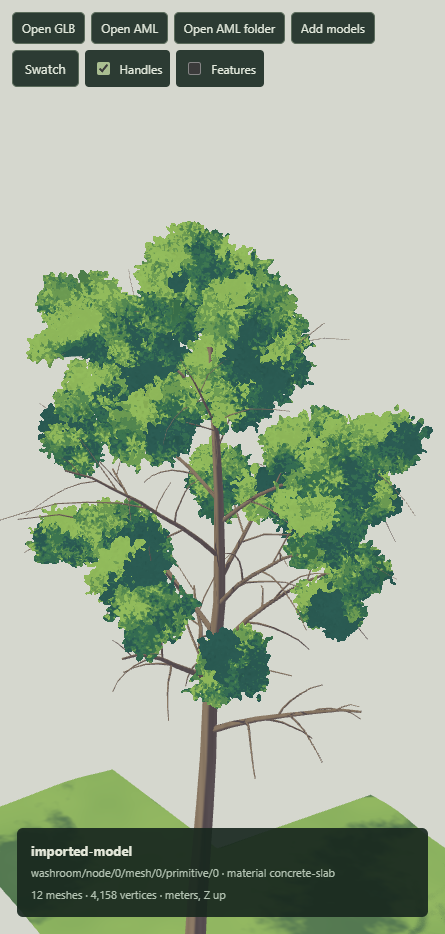
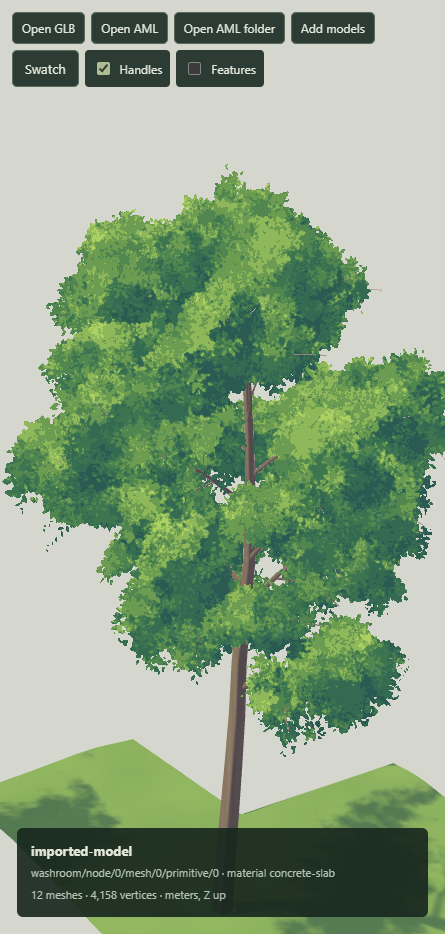
Checkpoint: painted trees from a leaf density field
Reference renders and the roadmap's record of the look: the density field's
core, cards ramping out from it, twig strips whose leaves fuse near the clump
and part toward the tip, a highlight band, and blur and re-threshold.

diff --git a/docs/plans/tree-item-roadmap.md b/docs/plans/tree-item-roadmap.md
@@ -622,6 +622,22 @@ is a rough base mesh shaded through a stroke-painted leaf normal map, with leafy
     shaded as the core with its normal turned toward each edge. With the cards kept to mid density and above
     (`CARD_FLOOR=0.35`), the rim is strips: 237 on the poplar (7,584 triangles), 102 on the birch. Alone they still
     lean toward fern fronds.
+  - Checkpoint `painted-trees-checkpoint` (2026-11-17), the settings of the reference look:
+    `BASE=density STRIPS=1 TILE=1.0 SIZE=0.6 DENSITY=5 COARSE=0.3 BLUR=0.006 REPAINT=1`, `FIELD_LEVEL` 0.6 (poplar)
+    or 0.85 (birch), cards and strips at their defaults. Since the strips first went in:
+    - twig strips sag toward their tips (`STRIP_DROOP` 0.3) and carry real leaves: pointed ovals 0.11 m long, 0.08 m
+      apart, alternating, angled 50° toward the tip, fewer where the foliage is thin; their leaves and stem are joined
+      by a smooth union whose radius (up to 7.5 cm) follows the density, so an offshoot is one mass where it leaves
+      the clump and parts into single leaves toward its tip (blur and re-threshold in closed form). A strip narrows as
+      it turns end-on; its random is rounded before hashing (interpolation is not bit-exact, and the hash made white
+      pinholes of the difference).
+    - highlights are a seventh band (`msLeafPaint`), a soft lime reached by a leaf's own light from the leaf map.
+    - density cards ramp out smoothly (kept on an eased ramp from the core's level to a tenth of full, 0.9 kept every
+      0.18 m), so the core thins into the strips with no step; the birch wants fewer (`CARD_KEEP` about 0.5).
+    - `?leafrepaint=1` (with `?leafblur=<m>`) blurs the painted parts' coverage and colours and cuts them again: the
+      coverage at a half (0.8 to fill a gap, so bark in front stays), the colour snapped flat to its nearest band.
+      0.006 m reads as gouache up close and fades at a distance (it is meters at the plant).
+    - Known gaps: the bark does not droop with the strips; the round density cards still read as round.
   - The flat dark discs among the fuzz were cards on edges the coarsening tore (one face): the opposite of the first
     face stood in for the missing one, so the card always showed and its light normal summed to zero. Those edges now
     get no card.
